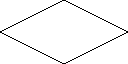
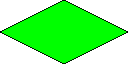
fixed isometric rendering, added pretty colors

diff --git a/LootShop/LootShop/Screens/DungeonScreen.cs b/LootShop/LootShop/Screens/DungeonScreen.cs
@@ -24,12 +24,10 @@ namespace LootShop {
 			}
 			stage.Objects.Remove(stage.Objects.Find(x => x.TilePosition.X == 1 && x.TilePosition.Y == 1));
 			stage.Objects.Add(new Terrain(stage, new Vector2(1, 1), true));
-			/*stage.Objects.Add(new Terrain(stage, new Vector2(0, 0), false));
-			stage.Objects.Add(new Terrain(stage, new Vector2(1, 0), false));
-			stage.Objects.Add(new Terrain(stage, new Vector2(0, 1), false));
-			stage.Objects.Add(new Terrain(stage, new Vector2(3, 3), false));
-			stage.Objects.Add(new Terrain(stage, new Vector2(4, 4), false));
-			stage.Objects.Add(new Terrain(stage, new Vector2(3, 4), false));*/
+			stage.Objects.Remove(stage.Objects.Find(x => x.TilePosition.X == 1 && x.TilePosition.Y == 2));
+			stage.Objects.Add(new Terrain(stage, new Vector2(1, 2), true));
+			stage.Objects.Remove(stage.Objects.Find(x => x.TilePosition.X == 2 && x.TilePosition.Y == 1));
+			stage.Objects.Add(new Terrain(stage, new Vector2(2, 1), true));
 		}
 
 		public override void LoadContent() {
@@ -72,6 +70,7 @@ namespace LootShop {
 			if (input.IsInput(Inputs.MenuRight, ControllingPlayer)) player.IntendedPosition.X += 8;
 
 			player.IntendedPosition += input.LeftThumbstick(ControllingPlayer) * 4;
+			stage.IntendedViewOffset += input.RightThumbstick(ControllingPlayer) * new Vector2(-1, -1) * 4;
 
 			if (input.CurrentMouseState.LeftButton == ButtonState.Pressed) player.IntendedPosition = new Vector2(input.CurrentMouseState.X, input.CurrentMouseState.Y) - stage.ViewOffset;
 		}
@@ -96,7 +95,7 @@ namespace LootShop {
 		public Terrain(Stage stage, Vector2 position, bool isBox) {
 			Stage = stage;
 			//Position = position * TileSize - (TileSize / 2);
-			if (isBox) IsFlat = true;
+			if (!isBox) IsFlat = true;
 			TilePosition = position;
 			Position = TranslateCoordinates(position) - (TileSize / 2);
 			IsBox = isBox;
@@ -141,7 +140,7 @@ namespace LootShop {
 			pos.X = (float)Math.Round(pos.X);
 			pos.Y = (float)Math.Round(pos.Y);
 			spriteBatch.Draw(CurrentFrame, pos, null, Color.White, 0f, Origin, 1f, SpriteEffects.None, 1f);
-			//spriteBatch.Draw(GameSession.Current.Pixel, offset + Position, Color.Red);
+			spriteBatch.Draw(GameSession.Current.Pixel, offset + Position, Color.Blue);
 		}
 		public abstract void Update(GameTime gameTime);
 		public static Vector2 TileSize = new Vector2(128, 64);
@@ -155,6 +154,7 @@ namespace LootShop {
 		public Dictionary<string, Texture2D> Textures = new Dictionary<string, Texture2D>();
 		public List<StageObject> Objects = new List<StageObject>();
 		public Vector2 ViewOffset = Vector2.Zero;
+		public Vector2 IntendedViewOffset = Vector2.Zero;
 		public void SortObjects() {
 			Objects.Sort((a, b) => (a.Position.Y + a.Priority - (a.IsFlat ? StageObject.TileSize.Y / 2 : 0)).CompareTo(b.Position.Y + b.Priority - (b.IsFlat ? StageObject.TileSize.Y / 2 : 0)));
 		}
@@ -164,6 +164,7 @@ namespace LootShop {
 			}
 		}
 		public void Update(GameTime gameTime) {
+			ViewOffset = Vector2.Lerp(ViewOffset, IntendedViewOffset, 0.5f);
 			foreach (StageObject o in Objects) {
 				o.Update(gameTime);
 			}

diff --git a/LootShop/LootShop/GameSession.cs b/LootShop/LootShop/GameSession.cs
@@ -66,15 +66,15 @@ namespace LootShop {
 			float totalTime = 8.45f;
 			float firstTime = 3.85f;
 			float secondTime = totalTime - firstTime;
-			screenManager.AddScreen(new ScreenProxy(new SplashScreen("108 Studios presents", TimeSpan.FromSeconds(firstTime)), new ScreenProxy(new SplashScreen("[second title card goes here]", TimeSpan.FromSeconds(secondTime)), new TitleScreen())), null);
-			//LoadingScreen.Load(screenManager, true, PlayerIndex.One, new DungeonScreen());
+			//screenManager.AddScreen(new ScreenProxy(new SplashScreen("108 Studios presents", TimeSpan.FromSeconds(firstTime)), new ScreenProxy(new SplashScreen("[second title card goes here]", TimeSpan.FromSeconds(secondTime)), new TitleScreen())), null);
+			LoadingScreen.Load(screenManager, true, PlayerIndex.One, new DungeonScreen());
 		}
 
 		protected override void Initialize() {
 			base.Initialize();
 			MediaPlayer.Play(TitleTheme);
 			MediaPlayer.IsRepeating = true;
-			//MediaPlayer.Volume = 0;
+			MediaPlayer.Volume = 0;
 		}
 
 		protected override void LoadContent() {

diff --git a/LootShop/LootShop/ScreenManager/InputState.cs b/LootShop/LootShop/ScreenManager/InputState.cs
@@ -206,5 +206,10 @@ namespace LootShop {
 			if (controllingPlayer == null) return Vector2.Zero;
 			return CurrentGamePadStates[(int)controllingPlayer].ThumbSticks.Left * new Vector2(1, -1);
 		}
+
+		public Vector2 RightThumbstick(PlayerIndex? controllingPlayer) {
+			if (controllingPlayer == null) return Vector2.Zero;
+			return CurrentGamePadStates[(int)controllingPlayer].ThumbSticks.Right * new Vector2(1, -1);
+		}
 	}
 }
